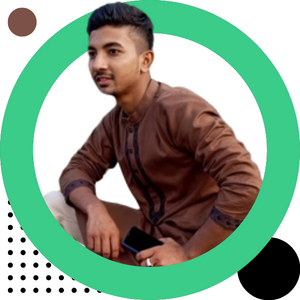
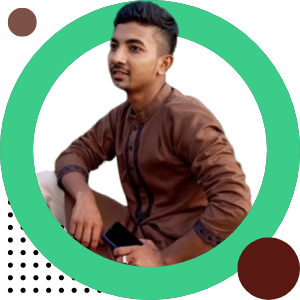
dream added

diff --git a/index.html b/index.html
@@ -13,20 +13,38 @@
 </head>
 
 <body>
-    <section class="fast-section">
+    <section class="top-banner">
         <div class="half-width">
             <h1>
-                Welcome to <br><span class="orange">Sayyed Ahsan </span>World
+                Welcome to <br><span class="green">Sayyed Ahsan </span>World
             </h1>
             <p>Lorem ipsum dolor sit amet consectetur adipisicing elit. Repellendus nam porro dolor ex dolorum deserunt
                 quos, officiis ipsa obcaecati labore adipisci earum animi fuga voluptas perferendis, accusantium
                 reiciendis iusto! Tempora accusantium enim tenetur reprehenderit sequi, recusandae deleniti? Adipisci
                 voluptates nemo quod cupiditate iure iste, dolorem tempora quaerat unde, provident accusantium vero
             </p><br>
-            <a class="link-button" target="_blank" href="facebook.com">contuct me</a>
+            <a class="link-button" target="_blank" href="facebook.com">Contuct me
+            </a>
         </div>
         <div class="half-width">
+            <img src="images/Untitled design.png" alt="">
+        </div>
+    </section>
+    <section class="dream-big">
+        <div class="half-width">
             <img src="images/Untitled design/2.png" alt="">
+        </div>
+        <div class="half-width">
+            <h1>
+                Dream Big
+            </h1>
+            <p>
+                Lorem ipsum dolor sit amet, consectetur adipisicing elit. Voluptas nam facere deleniti quisquam aperiam
+                corporis itaque, repellat eaque voluptatem dolores, dolor fugit sequi obcaecati deserunt? Vero iure hic
+                amet pariatur aliquam omnis earum, neque quae ea esse adipisci officia accusamus?
+            </p><br>
+            <a class="link-button" target="_blank" href="facebook.com">Downlode resume
+            </a>
         </div>
     </section>
 </body>

diff --git a/Styletwo.css b/Styletwo.css
@@ -1,24 +1,23 @@
-body {
+/* body {
     font-family: 'Roboto', sans-serif;
     margin: 0;
 }
 
 h1 {
     font-size: 50px;
-    color: rgb(106, 55, 45);
+    color: rgb(124, 81, 72);
 }
 
 P {
+    font-family: 'Roboto', sans-serif;
     box-shadow: -16px;
 }
 
-.green {
+.orange {
     color: rgba(48, 202, 130, 0.906);
 }
 
-/* 1st secction */
-
-.top-banner {
+.fast-section {
     display: flex;
     background-image: url(images/top-banner.png);
     background-repeat: no-repeat;
@@ -28,7 +27,6 @@ P {
     width: 50%;
     padding-left: 80px;
     padding-top: 20px;
-    padding-right: 80px;
 }
 
 .half-width img {
@@ -42,15 +40,4 @@ P {
     background-image: linear-gradient(black, rgb(102, 55, 17));
     padding: 10px;
     border-radius: 8px;
-    margin-top: 100px;
-}
-
-/* second section */
-
-.dream-big {
-    display: flex;
-    margin-top: 80px;
-    background-image: url(images/dream-bg.png);
-    background-repeat: no-repeat;
-    background-position: right;
-}
+} */
